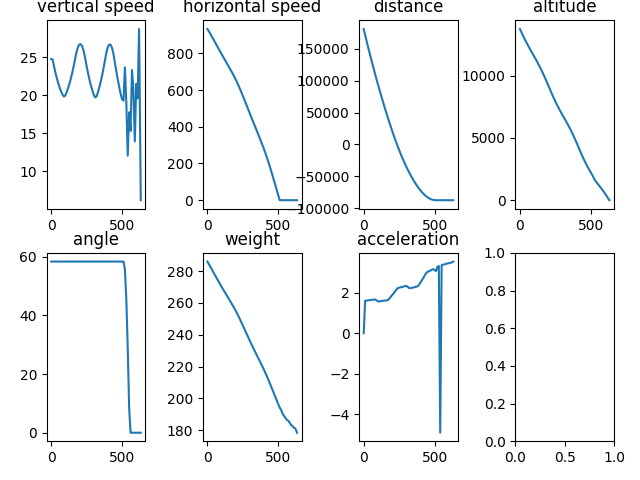
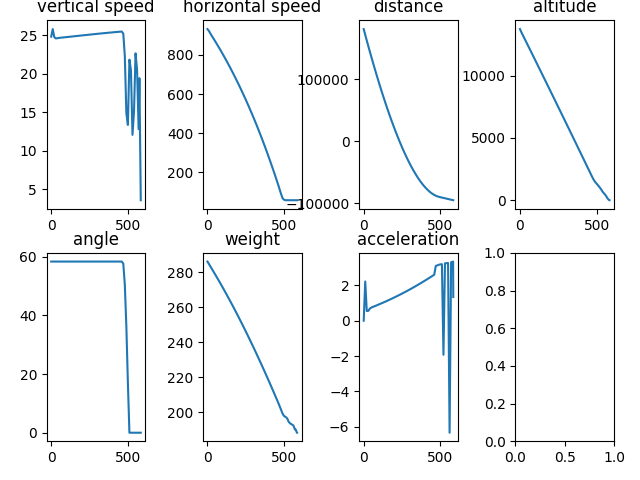
Updated PID parameters

diff --git a/src/Bereshit_101.java b/src/Bereshit_101.java
@@ -49,11 +49,9 @@ public class Bereshit_101 {
 
         // add PID Controller
         PID ang_controller = new PID(0.3, 0.5, 0.01);
-//        
-//        
-        PID vs_controller = new PID(0.2, 0.99, 0.25, 0.5);
-        vs_controller.setOutputLimits(0, 50);
-//        PID hs_controller = new PID(0.4, 0.6, 0.01);
+        
+        PID vs_controller = new PID(0.2, 0.5, 0.01, 0.2);
+        vs_controller.setOutputLimits(0, 70);
         
         // ***** main simulation loop ******
         while(alt > 0) {
@@ -64,30 +62,31 @@ public class Bereshit_101 {
             }
 
             if(alt>2000) {	// maintain a vertical speed of [20-25] m/s
-				if(vs >25) {NN+=0.003*dt;} // more power for braking
-				if(vs <20) {NN-=0.003*dt;} // less power for braking
+            	NN = 1 - (vs_controller.getOutput(vs, 20));
 			}
 			// lower than 2 km - horizontal speed should be close to zero
 			else {
+				vs_controller.setP(0.2);
+				vs_controller.setI(0.99);
+				vs_controller.setD(0.25);
+				vs_controller.setF(0.5);
+				//change angle
 				if(ang>3) {
 					ang += ang_controller.getOutput(ang, 0)/360;
-					//ang-=3;
-					System.out.println(ang);
-					System.out.println("alt is:" + alt);
 				} // rotate to vertical position.
-				else {ang =0;}
-				NN=1 - (vs_controller.getOutput(vs, 10)); // brake slowly, a proper PID controller here is needed!
+				else {ang=0;}
+				NN= 1 - (vs_controller.getOutput(vs, 10)); 
 				if(hs<2) {hs=0;}
-				if(vs <= 10) {
-					NN = 1;
+				if(vs <= 10 & alt > 125) {
+					NN = 0.7;
 				}
-				if(alt<125) { // very close to the ground!
+				if(alt<5) { // no need to stop
+					NN=0.4;
+				}
+				else if(alt<125) { // very close to the ground!
 					NN=1; // maximum braking!
 					if(vs<5) {NN=0.7;} // if it is slow enough - go easy on the brakes 
 				}
-			}
-			if(alt<5) { // no need to stop
-				NN=0.4;
 			}
             // main computations
             double ang_rad = Math.toRadians(ang);
